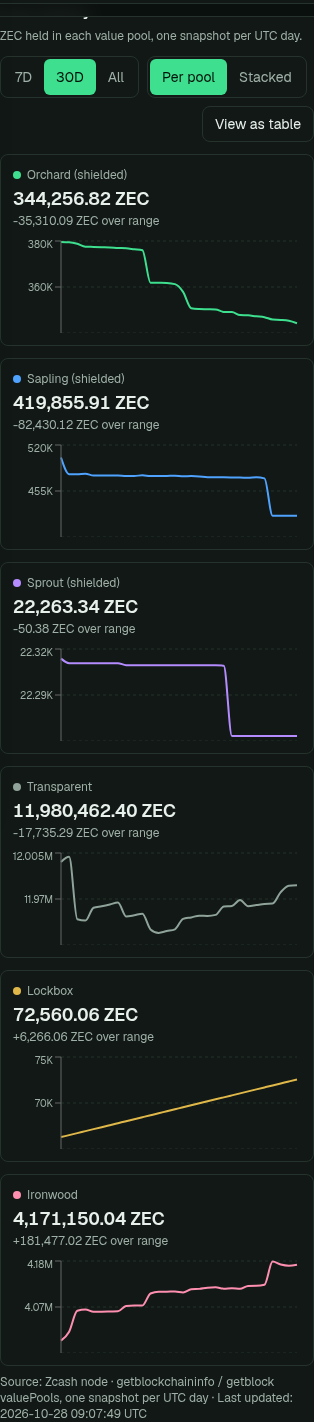
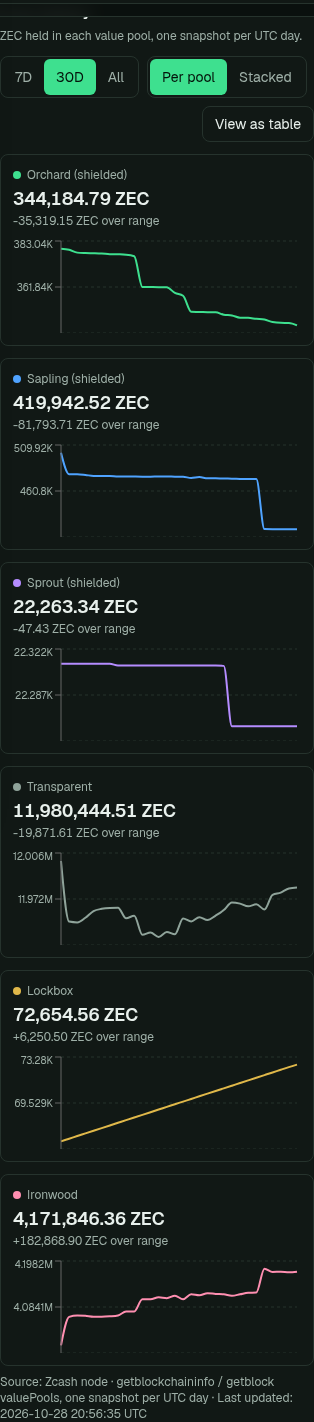
NOWNodes fallback: per-endpoint auth header, quota lockout and daily budget; 402 fails over; bad-key not retried; tests

diff --git a/src/lib/rpc.ts b/src/lib/rpc.ts
@@ -1,6 +1,6 @@
 import type { RpcBlock, RpcBlockchainInfo, RpcMiningInfo, RpcTx, RpcAddressBalance, RpcAddressDelta } from "./types";
 import * as mock from "./mock";
-import { BudgetExhausted, countCall, totalBudgetOk } from "./rpc-budget";
+import { BudgetExhausted, countCall, poolOk, type Pool } from "./rpc-budget";
 
 export class RpcError extends Error {
   constructor(message: string, public code: number | null = null) {
@@ -28,6 +28,9 @@ export function nextQuotaReset(now = Date.now()): number {
 }
 const quotaUntil = new Map<string, number>(); // per URL: skip calls entirely until the provider resets
 
+/** Endpoint rejected our credentials (HTTP 401/403), e.g. a wrong or inactive API key. */
+export class RpcAuthError extends Error { constructor(public status: number) { super(`RPC provider rejected credentials (HTTP ${status})`); } }
+
 /** Single interface shared by the live and the MOCKED client. */
 export interface ZcashRpc {
   readonly mocked: boolean;
@@ -47,16 +50,28 @@ export interface ZcashRpc {
 const TIMEOUT_MS = Number(process.env.ZCASH_RPC_TIMEOUT_MS ?? 8000); // shared tiers often take 3-6s
 const NOT_FOUND_CODES = new Set([-5, -8]);
 
+export interface RpcEndpoint { url: string; headers?: Record<string, string>; pool: Pool }
+
+/** Parse "Name: value; Other: value" (or JSON object) into headers. */
+export function parseHeaders(spec: string | undefined): Record<string, string> {
+  if (!spec) return {};
+  const t = spec.trim();
+  if (t.startsWith("{")) return JSON.parse(t) as Record<string, string>;
+  return Object.fromEntries(t.split(/;|\n/).map((p) => p.trim()).filter(Boolean).map((p) => { const i = p.indexOf(":"); return [p.slice(0, i).trim(), p.slice(i + 1).trim()]; }));
+}
+
 export class HttpRpcClient implements ZcashRpc {
   readonly mocked = false;
-  /** urls[0] is primary; later entries (ZCASH_RPC_URL_FALLBACK) are tried automatically on transport/provider failure. */
-  private urls: string[];
-  constructor(url: string | string[], private user?: string, private pass?: string) { this.urls = Array.isArray(url) ? url : [url]; }
+  /** endpoints[0] is primary; later entries (ZCASH_RPC_URL_FALLBACK) are tried automatically on transport/provider/quota failure. */
+  private endpoints: RpcEndpoint[];
+  constructor(eps: string | RpcEndpoint[], private user?: string, private pass?: string) {
+    this.endpoints = typeof eps === "string" ? [{ url: eps, pool: "primary" }] : eps;
+  }
 
   async call<T>(method: string, params: unknown[] = []): Promise<T> {
     let lastErr: unknown;
-    for (const url of this.urls) {
-      try { return await this.callOne<T>(url, method, params); }
+    for (const ep of this.endpoints) {
+      try { return await this.callOne<T>(ep, method, params); }
       catch (e) {
         if (e instanceof RpcError && e.code !== null) throw e; // a real RPC answer (e.g. not found): same on any node
         lastErr = e;
@@ -65,16 +80,18 @@ export class HttpRpcClient implements ZcashRpc {
     throw lastErr instanceof Error ? lastErr : new RpcError(String(lastErr));
   }
 
-  private async callOne<T>(url: string, method: string, params: unknown[]): Promise<T> {
-    const q = quotaUntil.get(url);
+  private async callOne<T>(ep: RpcEndpoint, method: string, params: unknown[]): Promise<T> {
+    const q = quotaUntil.get(ep.url); // per endpoint: the primary's lockout never blocks the fallback
     if (q && Date.now() < q) throw new RpcQuotaExhausted(q);
+    if (!poolOk(ep.pool)) throw new BudgetExhausted("total");
     let lastErr: unknown;
     for (let attempt = 0; attempt < 2; attempt++) {
       try {
-        return await this.once<T>(url, method, params);
+        return await this.once<T>(ep, method, params);
       } catch (e) {
         if (e instanceof RpcError && e.code !== null) throw e; // node answered with an RPC error
         if (e instanceof RpcRateLimited && (e.status === 429 || e.status === 402)) throw e; // rate-limited / out of quota: back off, don't hammer
+        if (e instanceof RpcAuthError) throw e; // bad key: retrying won't help
         lastErr = e;
         if (attempt === 0 && e instanceof RpcRateLimited) await new Promise((r) => setTimeout(r, 750)); // 503: brief pause, one retry
       }
@@ -82,17 +99,17 @@ export class HttpRpcClient implements ZcashRpc {
     throw lastErr instanceof Error ? lastErr : new RpcError(String(lastErr));
   }
 
-  private async once<T>(url: string, method: string, params: unknown[]): Promise<T> {
-    if (!totalBudgetOk()) throw new BudgetExhausted("total");
-    countCall();
-    const headers: Record<string, string> = { "content-type": "application/json" };
-    if (this.user || this.pass) headers.authorization = "Basic " + Buffer.from(`${this.user ?? ""}:${this.pass ?? ""}`).toString("base64");
-    const res = await fetch(url, {
+  private async once<T>(ep: RpcEndpoint, method: string, params: unknown[]): Promise<T> {
+    countCall(ep.pool);
+    const headers: Record<string, string> = { "content-type": "application/json", ...(ep.headers ?? {}) };
+    if (ep.pool === "primary" && (this.user || this.pass)) headers.authorization = "Basic " + Buffer.from(`${this.user ?? ""}:${this.pass ?? ""}`).toString("base64");
+    const res = await fetch(ep.url, {
       method: "POST", headers, cache: "no-store",
       body: JSON.stringify({ jsonrpc: "1.0", id: "fordnet", method, params }),
       signal: AbortSignal.timeout(TIMEOUT_MS),
     });
-    if (res.status === 402) { const r = nextQuotaReset(); quotaUntil.set(url, r); throw new RpcQuotaExhausted(r); }
+    if (res.status === 402) { const r = nextQuotaReset(); quotaUntil.set(ep.url, r); throw new RpcQuotaExhausted(r); }
+    if (res.status === 401 || res.status === 403) throw new RpcAuthError(res.status);
     if (res.status === 429 || res.status === 503) {
       const ra = Number(res.headers.get("retry-after"));
       throw new RpcRateLimited(res.status, Number.isFinite(ra) && ra > 0 ? ra : null);
@@ -149,12 +166,24 @@ export class MockRpcClient implements ZcashRpc {
   async getAddressTxids(a: string) { return mock.mockAddressDeltas(a).map((d) => d.txid); }
 }
 
+/** Primary ZCASH_RPC_URL + optional fallback with its own auth header (e.g. NOWNodes: ZCASH_RPC_FALLBACK_API_KEY → "api-key"). */
+export function endpointsFromEnv(url: string, env: Record<string, string | undefined> = process.env): RpcEndpoint[] {
+  const eps: RpcEndpoint[] = [{ url, pool: "primary" }];
+  const fb = env.ZCASH_RPC_URL_FALLBACK;
+  if (fb) {
+    const headers = parseHeaders(env.ZCASH_RPC_FALLBACK_HEADERS);
+    if (env.ZCASH_RPC_FALLBACK_API_KEY) headers[env.ZCASH_RPC_FALLBACK_API_KEY_HEADER ?? "api-key"] = env.ZCASH_RPC_FALLBACK_API_KEY;
+    eps.push({ url: fb, headers, pool: "fallback" });
+  }
+  return eps;
+}
+
 let client: ZcashRpc | null = null;
 export function getRpc(): ZcashRpc {
   if (client) return client;
   const url = process.env.ZCASH_RPC_URL;
   client = url && process.env.ZCASH_MOCK !== "1"
-    ? new HttpRpcClient([url, ...(process.env.ZCASH_RPC_URL_FALLBACK ? [process.env.ZCASH_RPC_URL_FALLBACK] : [])], process.env.ZCASH_RPC_USER, process.env.ZCASH_RPC_PASS)
+    ? new HttpRpcClient(endpointsFromEnv(url), process.env.ZCASH_RPC_USER, process.env.ZCASH_RPC_PASS)
     : new MockRpcClient();
   return client;
 }

diff --git a/src/lib/rpc-budget.ts b/src/lib/rpc-budget.ts
@@ -1,29 +1,41 @@
 /**
- * App-wide daily cap on node calls (GetBlock free plan: 50,000 CU/day). Counted in memory per instance and
- * flushed to Postgres at most once a minute (one upsert), so every instance sees an approximate shared total.
- * Lookups (block/tx/address pages) stop at LOOKUP_SHARE of the budget, leaving headroom for ingest/status.
+ * Daily caps on node calls, one pool per endpoint (GetBlock free: 50,000 CU/day; NOWNodes Start: 100k requests/month).
+ * Counted in memory per instance and flushed to Postgres at most once a minute (one upsert per pool), so every
+ * instance sees an approximate shared total. Lookups stop at LOOKUP_SHARE of the combined budget.
  */
+export type Pool = "primary" | "fallback";
 export const DAILY_CALL_BUDGET = Number(process.env.RPC_DAILY_CALL_BUDGET ?? 2000);
+export const FALLBACK_DAILY_BUDGET = Number(process.env.RPC_FALLBACK_DAILY_BUDGET ?? 3000);
 export const LOOKUP_SHARE = Number(process.env.RPC_LOOKUP_SHARE ?? 0.6);
+const LIMIT: Record<Pool, number> = { primary: DAILY_CALL_BUDGET, fallback: FALLBACK_DAILY_BUDGET };
 
 const today = (now = Date.now()) => new Date(now).toISOString().slice(0, 10);
-const state = { day: today(), shared: 0, unflushed: 0 };
+const fresh = () => ({ shared: 0, unflushed: 0 });
+const state = { day: today(), pools: { primary: fresh(), fallback: fresh() } as Record<Pool, { shared: number; unflushed: number }> };
 
-function roll(now = Date.now()) { const d = today(now); if (d !== state.day) { state.day = d; state.shared = 0; state.unflushed = 0; } }
-export function countCall() { roll(); state.unflushed++; }
-export function usedToday() { roll(); return state.shared + state.unflushed; }
-export function lookupBudgetOk() { return usedToday() < DAILY_CALL_BUDGET * LOOKUP_SHARE; }
-export function totalBudgetOk() { return usedToday() < DAILY_CALL_BUDGET; }
+function roll(now = Date.now()) { const d = today(now); if (d !== state.day) { state.day = d; state.pools = { primary: fresh(), fallback: fresh() }; } }
+export function countCall(pool: Pool = "primary") { roll(); state.pools[pool].unflushed++; }
+export function usedToday(pool: Pool = "primary") { roll(); const p = state.pools[pool]; return p.shared + p.unflushed; }
+export function poolOk(pool: Pool) { return usedToday(pool) < LIMIT[pool]; }
+/** Lookups may use LOOKUP_SHARE of each pool; allowed while any configured pool has room. */
+export function lookupBudgetOk(hasFallback = Boolean(process.env.ZCASH_RPC_URL_FALLBACK)) {
+  return usedToday("primary") < DAILY_CALL_BUDGET * LOOKUP_SHARE || (hasFallback && usedToday("fallback") < FALLBACK_DAILY_BUDGET * LOOKUP_SHARE);
+}
+export function totalBudgetOk() { return poolOk("primary"); }
 
 export class BudgetExhausted extends Error {
   constructor(public scope: "lookup" | "total") { super(scope === "lookup" ? "Daily lookup budget for the node provider is used up" : "Daily node-call budget is used up"); }
 }
 
-/** Persist this instance's unflushed calls and learn the shared total. `upsert` adds n and returns the new total. */
-export async function flushUsage(upsert: (day: string, n: number) => Promise<number>) {
+/** Persist unflushed calls per pool and learn the shared totals. `upsert(key, n)` adds n and returns the new total. */
+export async function flushUsage(upsert: (key: string, n: number) => Promise<number>) {
   roll();
-  const n = state.unflushed; state.unflushed = 0;
-  try { state.shared = await upsert(state.day, n); } catch { state.unflushed += n; }
+  for (const pool of ["primary", "fallback"] as const) {
+    const p = state.pools[pool]; const n = p.unflushed;
+    if (n === 0 && p.shared > 0) continue;
+    p.unflushed = 0;
+    try { p.shared = await upsert(`rpcCalls${pool === "fallback" ? "Fallback" : ""}:${state.day}`, n); } catch { p.unflushed += n; }
+  }
 }
 /** test helper */
-export function _reset(shared = 0) { state.day = today(); state.shared = shared; state.unflushed = 0; }
+export function _reset(shared = 0, pool: Pool = "primary") { state.day = today(); state.pools = { primary: fresh(), fallback: fresh() }; state.pools[pool].shared = shared; }

diff --git a/tests/rpc-fallback.test.ts b/tests/rpc-fallback.test.ts
@@ -1,0 +1,35 @@
+import { afterEach, describe, expect, it, vi } from "vitest";
+import { endpointsFromEnv, HttpRpcClient, parseHeaders } from "../src/lib/rpc";
+import { _reset, usedToday } from "../src/lib/rpc-budget";
+
+afterEach(() => { vi.unstubAllGlobals(); _reset(); });
+
+describe("fallback endpoint", () => {
+  it("builds the fallback with its api-key header and own budget pool", () => {
+    const eps = endpointsFromEnv("https://primary", { ZCASH_RPC_URL_FALLBACK: "https://zec.nownodes.io", ZCASH_RPC_FALLBACK_API_KEY: "k" });
+    expect(eps).toEqual([{ url: "https://primary", pool: "primary" }, { url: "https://zec.nownodes.io", headers: { "api-key": "k" }, pool: "fallback" }]);
+    expect(parseHeaders("api-key: a; X-Other: b")).toEqual({ "api-key": "a", "X-Other": "b" });
+  });
+
+  it("uses the fallback when the primary is out of CU (402), and skips the locked-out primary afterwards", async () => {
+    const seen: string[] = [];
+    vi.stubGlobal("fetch", vi.fn(async (url: string, init: RequestInit) => {
+      seen.push(url);
+      if (url === "https://primary") return new Response("Out of CU", { status: 402 });
+      expect((init.headers as Record<string, string>)["api-key"]).toBe("k");
+      return new Response(JSON.stringify({ result: 123, error: null }), { status: 200 });
+    }));
+    const c = new HttpRpcClient(endpointsFromEnv("https://primary", { ZCASH_RPC_URL_FALLBACK: "https://fb", ZCASH_RPC_FALLBACK_API_KEY: "k" }));
+    expect(await c.getBlockCount()).toBe(123);
+    expect(await c.getBlockCount()).toBe(123);
+    expect(seen).toEqual(["https://primary", "https://fb", "https://fb"]); // primary not called again until reset
+    expect(usedToday("fallback")).toBe(2);
+  });
+
+  it("does not retry a rejected key", async () => {
+    let n = 0;
+    vi.stubGlobal("fetch", vi.fn(async () => { n++; return new Response("Unknown API_key", { status: 401 }); }));
+    await expect(new HttpRpcClient("https://only").getBlockCount()).rejects.toThrow(/HTTP 401/);
+    expect(n).toBe(1);
+  });
+});

diff --git a/src/lib/ingest.ts b/src/lib/ingest.ts
@@ -191,7 +191,9 @@ export async function ingestIfDue(opts: IngestOptions & { maxAgeMs?: number; for
     const last = Number(m.get("lastIngestAt") ?? 0);
     if (!opts.force && now - last < (opts.maxAgeMs ?? INGEST_INTERVAL_MS)) return null;
     const health = m.get("rpcHealth") ? (JSON.parse(m.get("rpcHealth") as string) as Degraded) : null;
-    if (health?.retryAt && now < health.retryAt) return null; // provider told us to back off
+    // provider told us to back off; a daily-quota lockout of the primary doesn't stop the fallback endpoint
+    const fallbackCovers = health?.reason === "quota_exhausted" && Boolean(process.env.ZCASH_RPC_URL_FALLBACK);
+    if (health?.retryAt && now < health.retryAt && !fallbackCovers) return null;
     if (!(await acquireLease(now))) return null; // another instance is ingesting
     const r = await runIngest(opts);
     if (health) await setMeta("rpcHealth", "");
@@ -209,8 +211,7 @@ export async function ensureFresh(maxAgeMs = INGEST_INTERVAL_MS): Promise<void> 
   if (!dbAvailable()) return; // nowhere to store results
   if (Date.now() < nextCheckAt) return;
   nextCheckAt = Date.now() + 60_000;
-  const flush = () => flushUsage(async (day, n) => { // one cheap upsert per instance per minute
-    const key = `rpcCalls:${day}`;
+  const flush = () => flushUsage(async (key, n) => { // one cheap upsert per pool per instance per minute
     const [r] = await (await getDb()).insert(schema.meta).values({ key, value: String(n) })
       .onConflictDoUpdate({ target: schema.meta.key, set: { value: sql`(${schema.meta.value}::bigint + ${n})::text` } }).returning({ value: schema.meta.value });
     return Number(r.value);

diff --git a/README.md b/README.md
@@ -35,6 +35,8 @@ pnpm build
 |---|---|
 | `ZCASH_RPC_URL` | zcashd/Zebra JSON-RPC URL. Empty → MOCKED client |
 | `ZCASH_RPC_URL_FALLBACK` | Optional second JSON-RPC URL, used automatically when the primary times out or returns 429/503 |
+| `ZCASH_RPC_FALLBACK_API_KEY` | Sent as the `api-key` header to the fallback (NOWNodes); header name via `ZCASH_RPC_FALLBACK_API_KEY_HEADER`, or arbitrary headers via `ZCASH_RPC_FALLBACK_HEADERS` (`"Name: value; Other: value"` or JSON) |
+| `RPC_FALLBACK_DAILY_BUDGET` | Daily call cap for the fallback (default 3000 ≈ NOWNodes Start 100k/month) |
 | `ZCASH_RPC_TIMEOUT_MS` | Per-call timeout (default 8000) |
 | `ZCASH_RPC_USER`, `ZCASH_RPC_PASS` | Basic-auth credentials |
 | `ZCASH_MOCK` | `1` forces mock even with a URL |
@@ -119,6 +121,9 @@ One pure function (`deriveState` in `src/lib/state.ts`, unit-tested in `tests/st
 
 ### Provider quota (HTTP 402)
 GetBlock's free plan has a daily compute-unit budget (50,000 CU, topped up daily at 07:30 UTC per GetBlock's docs). When it is used up the endpoint answers `402 Out of CU`. Fordnet then stops calling that URL until the reset (`ZCASH_RPC_QUOTA_RESET_UTC`, default `07:30`), records `degraded.reason = "quota_exhausted"` with `retryAt` = the reset, keeps serving stored data and shows "Data delayed — node provider daily quota used up (resets 07:30 UTC)" (amber, not red). If `ZCASH_RPC_URL_FALLBACK` is set it is used meanwhile. Lookup pages are the main CU cost (an address page is up to 7 calls), so `robots.txt` keeps crawlers off `/address/`, `/tx/`, `/block/` and `/search`, and address pages fetch the 5 most recent transactions.
+
+### Fallback node: NOWNodes
+Production uses NOWNodes (`https://zec.nownodes.io`, `api-key` header) as `ZCASH_RPC_URL_FALLBACK`. Each endpoint has its own quota lockout and daily budget, so GetBlock's 402 "Out of CU" lockout never blocks the fallback, and an ingest backoff caused by the primary's quota is skipped while a fallback is configured. A 401/403 (bad or inactive key) is not retried. Tested methods on NOWNodes Zcash (Zebra-style): `getblockchaininfo` (with `valuePools`), `getblock` verbosity 1 and 2 (with `valuePools`), `getblockcount`, `getbestblockhash`, `getmininginfo` (has `networksolps`), `getrawtransaction` verbose, out-of-range heights answer `-8`. Not available (HTTP 405): `getnetworksolps` (hashrate falls back to `getmininginfo`), `getaddressbalance`, `getaddresstxids`, `getaddressdeltas` (address pages show "not reported" while on the fallback).
 
 ### GetBlock shared tier notes
 The shared endpoint answers single calls in about 1–4s, but rate-limits bursts (40 parallel calls → 14×200, 20×429, 5×503, 1 timeout) and intermittently returns `503 Service temporarily unavailable` after ~10s. No daily quota exhaustion was observed and it sends no `Retry-After`. Fordnet therefore keeps RPC volume to one serial ingest per 5 minutes, a 60s-memoised tip check, plus cache misses. Address fetches are sequential (≤10 txs). A second RPC URL as a fallback would add resilience but is not required.
